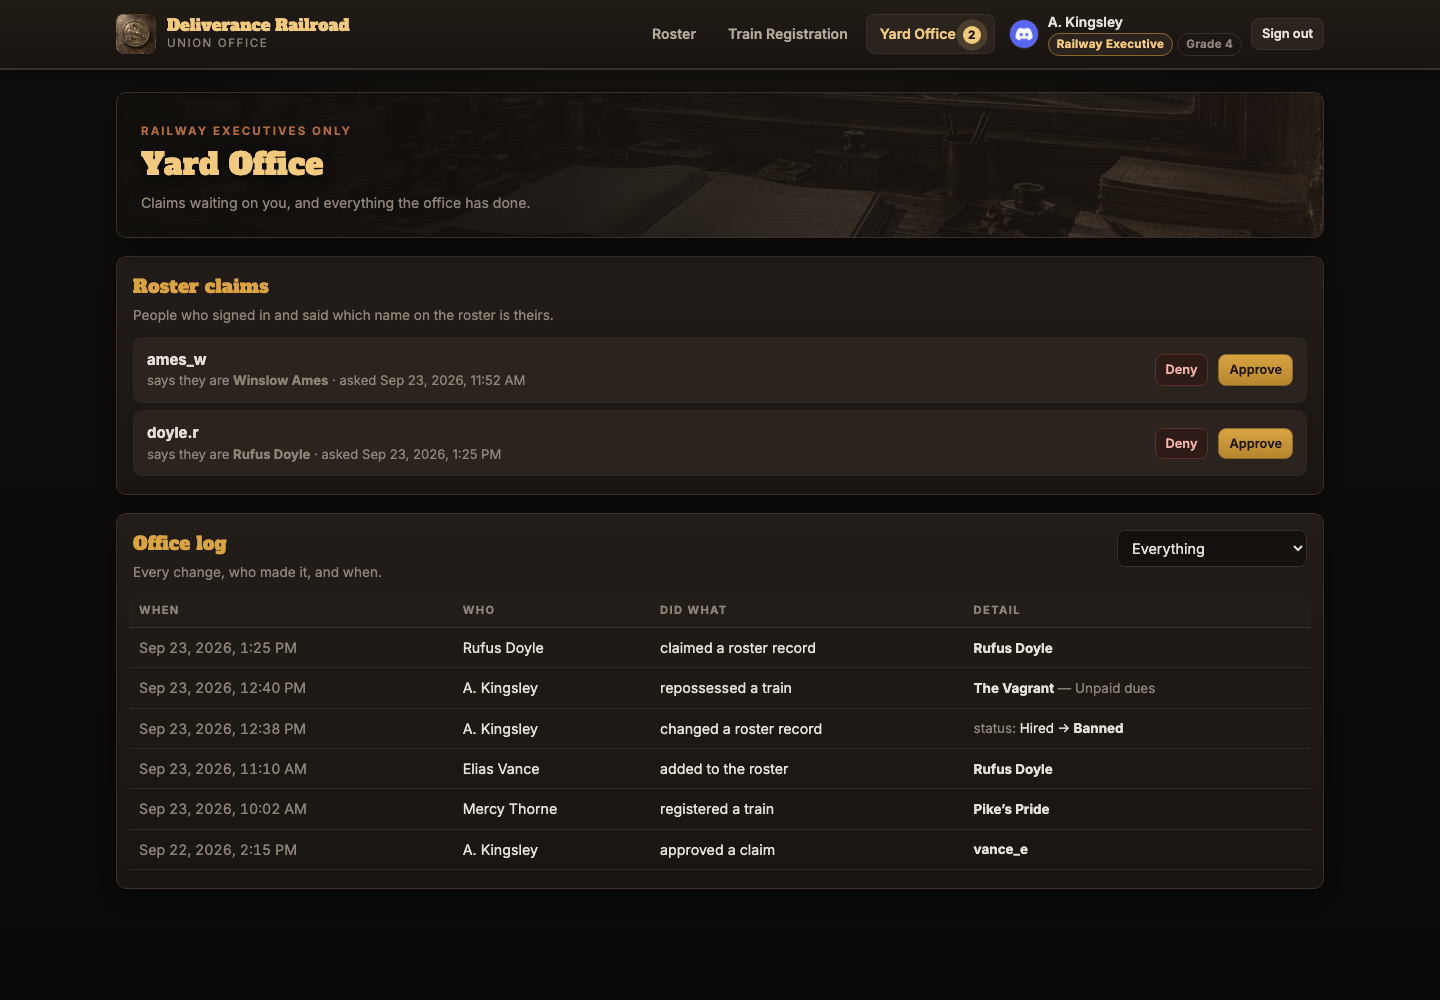
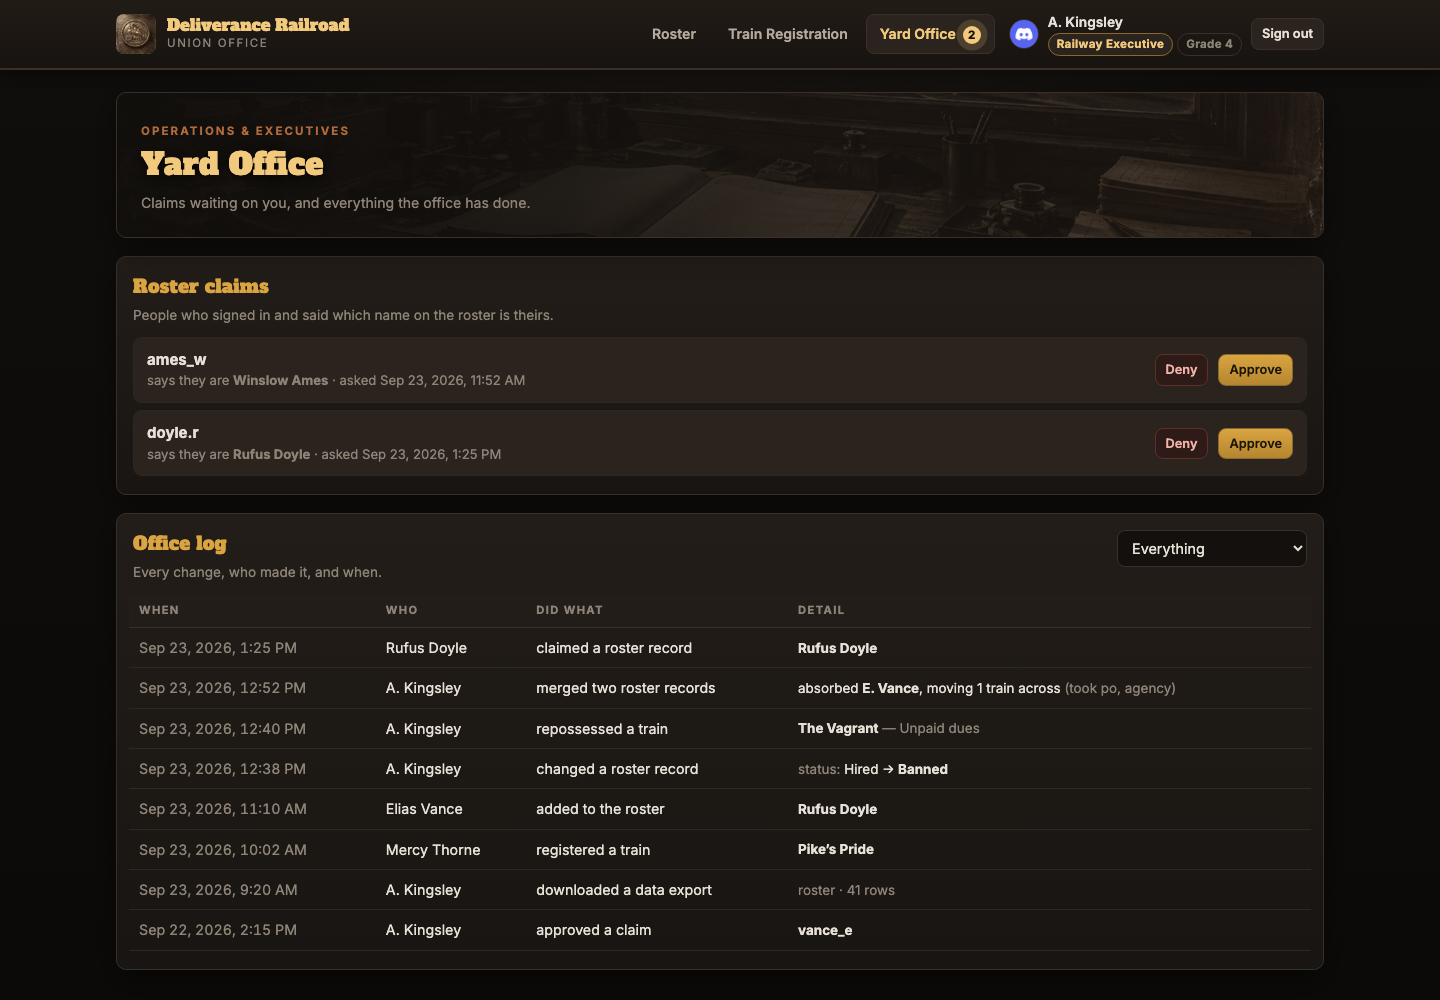
Re-shoot the Yard Office screenshot, and fix "1 train(s)"
The screenshot still showed the old "Railway Executives only" kicker. While
re-shooting it, the office log read "moving 1 train(s) across" — lazy
pluralisation, and now visible in a public screenshot. Replaced the three
hand-written "(s)" strings with a small plural() helper.

diff --git a/site/js/yard.js b/site/js/yard.js
@@ -75,6 +75,10 @@
     'export': 'downloaded a data export'
   };
 
+  function plural(n, one, many) {
+    return n + ' ' + (n === 1 ? one : (many || one + 's'));
+  }
+
   function summarise(ev) {
     let detail = ev.detail;
     try { detail = JSON.parse(ev.detail); } catch (e) { return RR.esc(String(ev.detail || '')); }
@@ -91,13 +95,13 @@
       const r = detail.record || {};
       return 'removed <strong>' + RR.esc((r.first_name || '') + ' ' + (r.last_name || '')) + '</strong>'
         + (detail.trainsRemoved && detail.trainsRemoved.length
-            ? ' and struck ' + detail.trainsRemoved.length + ' train(s)' : '');
+            ? ' and struck ' + plural(detail.trainsRemoved.length, 'train') : '');
     }
     if (ev.action === 'member.merge') {
       const a = detail.absorbed || {};
       return 'absorbed <strong>' + RR.esc((a.first_name || '') + ' ' + (a.last_name || '')) + '</strong>'
         + (detail.trainsMoved && detail.trainsMoved.length
-            ? ', moving ' + detail.trainsMoved.length + ' train(s) across' : '')
+            ? ', moving ' + plural(detail.trainsMoved.length, 'train') + ' across' : '')
         + (detail.fieldsTaken && detail.fieldsTaken.length
             ? ' <span class="muted">(took ' + RR.esc(detail.fieldsTaken.join(', ')) + ')</span>' : '');
     }

diff --git a/site/trains.html b/site/trains.html
@@ -9,7 +9,7 @@
 <link rel="apple-touch-icon" href="assets/emblem.png" />
 <link rel="preconnect" href="https://fonts.gstatic.com" crossorigin />
 <link rel="stylesheet" href="https://fonts.googleapis.com/css2?family=Alfa+Slab+One&family=Inter:wght@400;500;600;700;800&display=swap" />
-<link rel="stylesheet" href="css/styles.css?v=20260923n" />
+<link rel="stylesheet" href="css/styles.css?v=20260923o" />
 </head>
 <body>
   <header class="rail-top" id="railTop"></header>
@@ -65,8 +65,8 @@
     </section>
   </main>
 
-<script src="js/app.js?v=20260923n"></script>
-<script src="js/trains.js?v=20260923n"></script>
-<script src="js/registry.js?v=20260923n"></script>
+<script src="js/app.js?v=20260923o"></script>
+<script src="js/trains.js?v=20260923o"></script>
+<script src="js/registry.js?v=20260923o"></script>
 </body>
 </html>

diff --git a/site/index.html b/site/index.html
@@ -9,7 +9,7 @@
 <link rel="apple-touch-icon" href="assets/emblem.png" />
 <link rel="preconnect" href="https://fonts.gstatic.com" crossorigin />
 <link rel="stylesheet" href="https://fonts.googleapis.com/css2?family=Alfa+Slab+One&family=Inter:wght@400;500;600;700;800&display=swap" />
-<link rel="stylesheet" href="css/styles.css?v=20260923n" />
+<link rel="stylesheet" href="css/styles.css?v=20260923o" />
 </head>
 <body>
   <header class="rail-top" id="railTop"></header>
@@ -64,8 +64,8 @@
     </section>
   </main>
 
-<script src="js/app.js?v=20260923n"></script>
-<script src="js/trains.js?v=20260923n"></script>
-<script src="js/roster.js?v=20260923n"></script>
+<script src="js/app.js?v=20260923o"></script>
+<script src="js/trains.js?v=20260923o"></script>
+<script src="js/roster.js?v=20260923o"></script>
 </body>
 </html>

diff --git a/site/yard.html b/site/yard.html
@@ -9,7 +9,7 @@
 <link rel="apple-touch-icon" href="assets/emblem.png" />
 <link rel="preconnect" href="https://fonts.gstatic.com" crossorigin />
 <link rel="stylesheet" href="https://fonts.googleapis.com/css2?family=Alfa+Slab+One&family=Inter:wght@400;500;600;700;800&display=swap" />
-<link rel="stylesheet" href="css/styles.css?v=20260923n" />
+<link rel="stylesheet" href="css/styles.css?v=20260923o" />
 </head>
 <body>
   <header class="rail-top" id="railTop"></header>
@@ -52,8 +52,8 @@
     </section>
   </main>
 
-<script src="js/app.js?v=20260923n"></script>
-<script src="js/trains.js?v=20260923n"></script>
-<script src="js/yard.js?v=20260923n"></script>
+<script src="js/app.js?v=20260923o"></script>
+<script src="js/trains.js?v=20260923o"></script>
+<script src="js/yard.js?v=20260923o"></script>
 </body>
 </html>

diff --git a/site/js/roster.js b/site/js/roster.js
@@ -327,7 +327,10 @@
       try {
         const r = await RR.post('api/roster.php', { action: 'delete', memberId: m.id });
         dlg.close();
-        RR.toast('Removed from the roster' + (r.trainsRemoved ? ' with ' + r.trainsRemoved + ' train(s).' : '.'));
+        RR.toast('Removed from the roster'
+          + (r.trainsRemoved
+              ? ' with ' + r.trainsRemoved + ' train' + (r.trainsRemoved === 1 ? '' : 's') + '.'
+              : '.'));
         await load();
       } catch (e) { RR.toast(e.message, true); }
     });

diff --git a/site/login.html b/site/login.html
@@ -9,7 +9,7 @@
 <link rel="apple-touch-icon" href="assets/emblem.png" />
 <link rel="preconnect" href="https://fonts.gstatic.com" crossorigin />
 <link rel="stylesheet" href="https://fonts.googleapis.com/css2?family=Alfa+Slab+One&family=Inter:wght@400;500;600;700;800&display=swap" />
-<link rel="stylesheet" href="css/styles.css?v=20260923n" />
+<link rel="stylesheet" href="css/styles.css?v=20260923o" />
 </head>
 <body>
   <main class="login-wrap">
